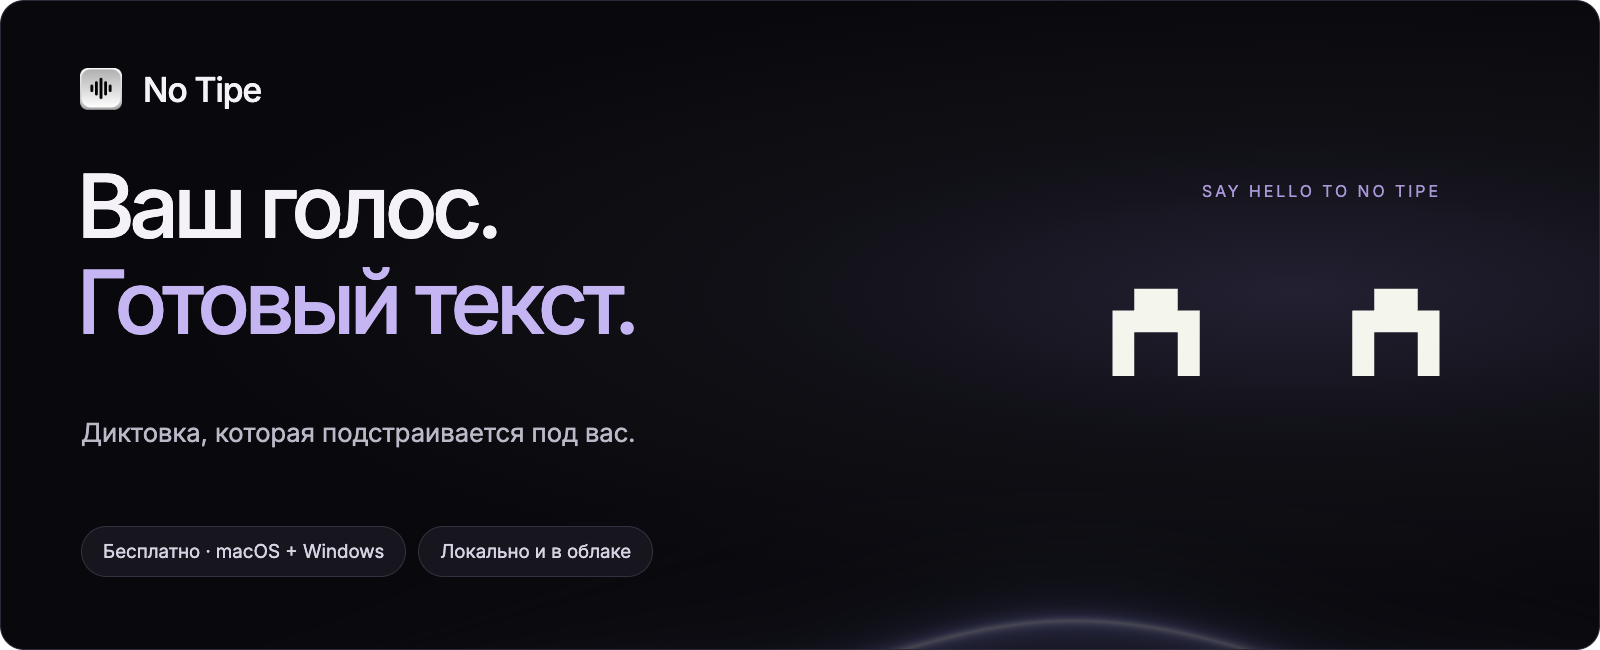
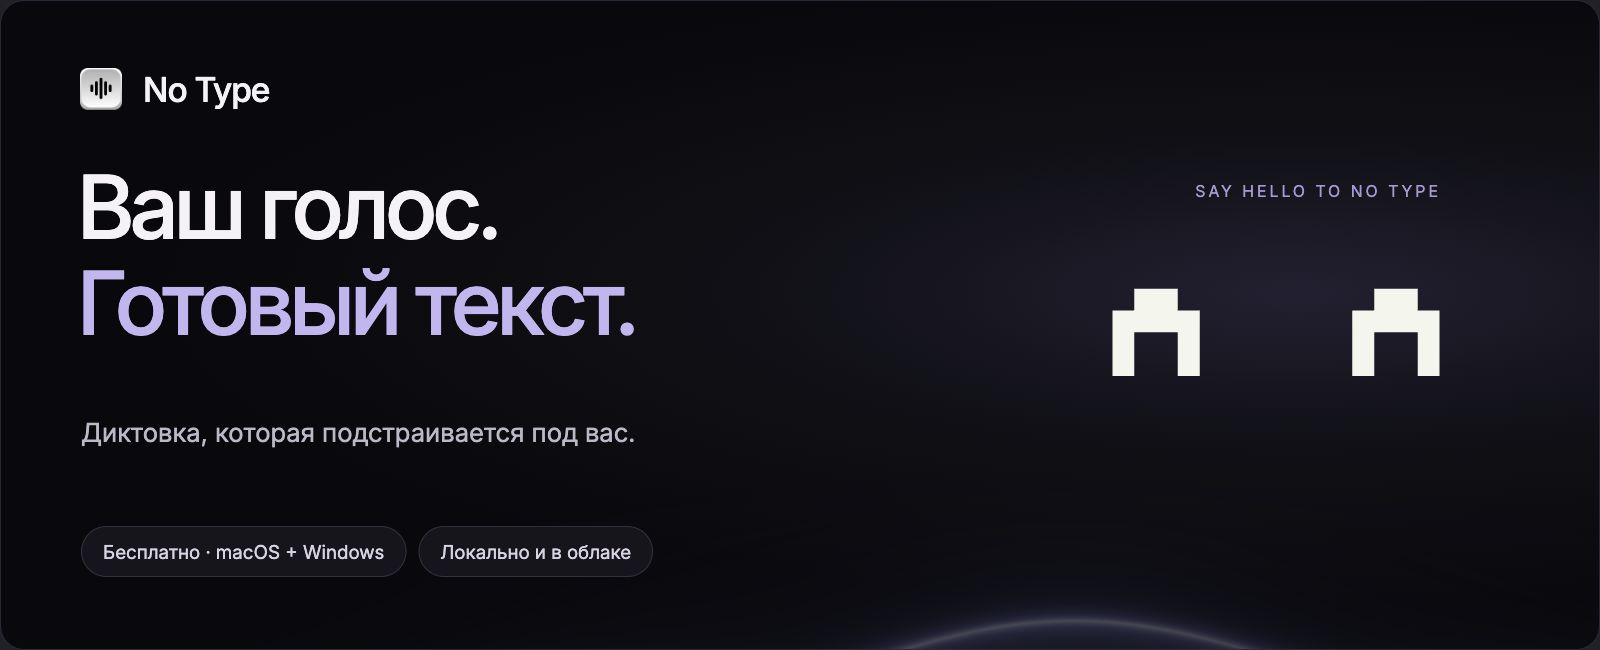
Rename public presentation to No Type

diff --git a/README.en.md b/README.en.md
@@ -3,13 +3,13 @@
 <p align="center">
   <picture>
   <source media="(max-width: 600px)" srcset="assets/hero-en-mobile.png" />
-  <img src="assets/hero-en.png" alt="No Tipe — your voice, ready to write. Free desktop dictation for macOS and Windows, with local and cloud models." width="100%" />
+  <img src="assets/hero-en.png" alt="No Type — your voice, ready to write. Free desktop dictation for macOS and Windows, with local and cloud models." width="100%" />
 </picture>
 </p>
 
 <p align="center">
-  <a href="https://github.com/Darlingfxx02/no-tipe-releases/releases/download/v0.1.4/NoTipe_0.1.4_darwin-aarch64.dmg"><img src="assets/macos-en.png" alt="Download No Tipe 0.1.4 for macOS — Apple Silicon" width="248" /></a>
-  <a href="https://github.com/Darlingfxx02/no-tipe-releases/releases/download/v0.1.4/NoTipe_0.1.4_windows-x86_64-setup.exe"><img src="assets/windows-en.png" alt="Download No Tipe 0.1.4 for Windows — x64" width="248" /></a>
+  <a href="https://github.com/Darlingfxx02/no-tipe-releases/releases/download/v0.1.4/NoTipe_0.1.4_darwin-aarch64.dmg"><img src="assets/macos-en.png" alt="Download No Type 0.1.4 for macOS — Apple Silicon" width="248" /></a>
+  <a href="https://github.com/Darlingfxx02/no-tipe-releases/releases/download/v0.1.4/NoTipe_0.1.4_windows-x86_64-setup.exe"><img src="assets/windows-en.png" alt="Download No Type 0.1.4 for Windows — x64" width="248" /></a>
   <a href="https://boosty.to/notipe"><img src="assets/boosty-en.png" alt="Support the project on Boosty" width="248" /></a>
 </p>
 
@@ -20,7 +20,7 @@
   <a href="https://github.com/Darlingfxx02/no-tipe-releases/issues">Feedback</a>
 </p>
 
-**No Tipe turns speech into text for your apps.** Press a shortcut, say what you have in mind, and get text in the focused field. Choose local or cloud models, shape the output with writing modes, and make the little recorder your own.
+**No Type turns speech into text for your apps.** Press a shortcut, say what you have in mind, and get text in the focused field. Choose local or cloud models, shape the output with writing modes, and make the little recorder your own.
 
 Free for personal and professional use. Supporting the author is optional; every feature is available without a donation. Cloud providers charge separately under their own pricing.
 
@@ -37,7 +37,7 @@ Windows defaults to Right Ctrl: hold it while speaking and release to finish. Up
 
 ## A home for your words
 
-<img src="assets/overview-en.png" alt="No Tipe dashboard with recent transcripts, insights, writing modes, dictionary, snippets, and models." width="100%" />
+<img src="assets/overview-en.png" alt="No Type dashboard with recent transcripts, insights, writing modes, dictionary, snippets, and models." width="100%" />
 
 <sub>Actual application interface. History and statistics in these images are demo data; time saved is an estimate.</sub>
 
@@ -71,7 +71,7 @@ A mode defines what happens to your transcript. Edit its instructions to remove 
 
 ### How you use dictation
 
-<img src="assets/insights.png" alt="No Tipe insights: speaking speed, corrections, word count, usage by app, and an activity calendar. Demo data." width="100%" />
+<img src="assets/insights.png" alt="No Type insights: speaking speed, corrections, word count, usage by app, and an activity calendar. Demo data." width="100%" />
 
 </details>
 
@@ -79,7 +79,7 @@ A mode defines what happens to your transcript. Edit its instructions to remove 
 
 <picture>
   <source media="(max-width: 600px)" srcset="assets/recorder-en-mobile.png" />
-  <img src="assets/recorder-en.png" alt="Four No Tipe recorder appearances: lavender Prism, green Aurora, a pixel companion, and a heart in response to petting." width="100%" />
+  <img src="assets/recorder-en.png" alt="Four No Type recorder appearances: lavender Prism, green Aurora, a pixel companion, and a heart in response to petting." width="100%" />
 </picture>
 
 Pick waves or a pixel companion, adjust the size, and choose a palette. The robot reacts when you pet it with your pointer. Place the recorder in a floating bubble or along the top edge of your screen.
@@ -104,7 +104,7 @@ Pick waves or a pixel companion, adjust the size, and choose a palette. The robo
 
 The Windows local text-model runtime requires AVX2. This release has no installers for Intel Mac, Windows ARM, or Linux. Find the newest version on the [releases page](https://github.com/Darlingfxx02/no-tipe-releases/releases/latest).
 
-1. **Install the app.** On Mac, open the DMG and drag No Tipe to Applications. On Windows, run the EXE and follow the installer.
+1. **Install the app.** On Mac, open the DMG and drag No Type to Applications. On Windows, run the EXE and follow the installer.
 2. **Allow microphone access.** On macOS, also allow Accessibility for text insertion.
 3. **Choose speech recognition.** Download a local speech model inside the app, or connect a cloud provider with your own API key.
 4. **Set a shortcut and try dictation.** Focus a text field, press the shortcut, and say a couple of sentences.
@@ -122,13 +122,13 @@ The `.app.tar.gz`, `.sig`, and `latest.json` files serve the updater. Use the DM
 
 </details>
 
-## Support No Tipe
+## Support No Type
 
 <p align="center">
-  <a href="https://boosty.to/notipe"><img src="assets/mascot.gif" alt="The No Tipe pixel companion smiles, blinks, and turns into a heart." width="360" /></a>
+  <a href="https://boosty.to/notipe"><img src="assets/mascot.gif" alt="The No Type pixel companion smiles, blinks, and turns into a heart." width="360" /></a>
 </p>
 
-No Tipe is made by **Darlingfxx02**. If the app helps you work, support its development on Boosty with a one-time donation or a subscription. You can follow project updates there too.
+No Type is made by **Darlingfxx02**. If the app helps you work, support its development on Boosty with a one-time donation or a subscription. You can follow project updates there too.
 
 <p align="center">
   <a href="https://boosty.to/notipe"><img src="assets/boosty-en.png" alt="Support the project on Boosty" width="290" /></a>
@@ -150,9 +150,9 @@ When you choose a cloud model, audio or text is sent to the selected provider. C
 </details>
 
 <details>
-<summary><strong>Is No Tipe free and open source?</strong></summary>
+<summary><strong>Is No Type free and open source?</strong></summary>
 
-No Tipe is free for personal and professional use under a [proprietary license](LICENSE). Its source code is closed. This repository contains installers, signed updater packages, release documentation, and presentation images.
+No Type is free for personal and professional use under a [proprietary license](LICENSE). Its source code is closed. This repository contains installers, signed updater packages, release documentation, and presentation images.
 
 Third-party dependencies retain their own licenses and notices, available in **Settings → General → License and notices**. See also the [third-party notices](THIRD-PARTY-NOTICES.md).
 
@@ -161,7 +161,7 @@ Third-party dependencies retain their own licenses and notices, available in **S
 <details>
 <summary><strong>How do I report a bug or suggest an idea?</strong></summary>
 
-Open an [Issue](https://github.com/Darlingfxx02/no-tipe-releases/issues) with the No Tipe version, OS version, selected model, and steps to reproduce. Include a screenshot or the exact error message when useful. Remove personal data and API keys before posting.
+Open an [Issue](https://github.com/Darlingfxx02/no-tipe-releases/issues) with the No Type version, OS version, selected model, and steps to reproduce. Include a screenshot or the exact error message when useful. Remove personal data and API keys before posting.
 
 </details>
 
